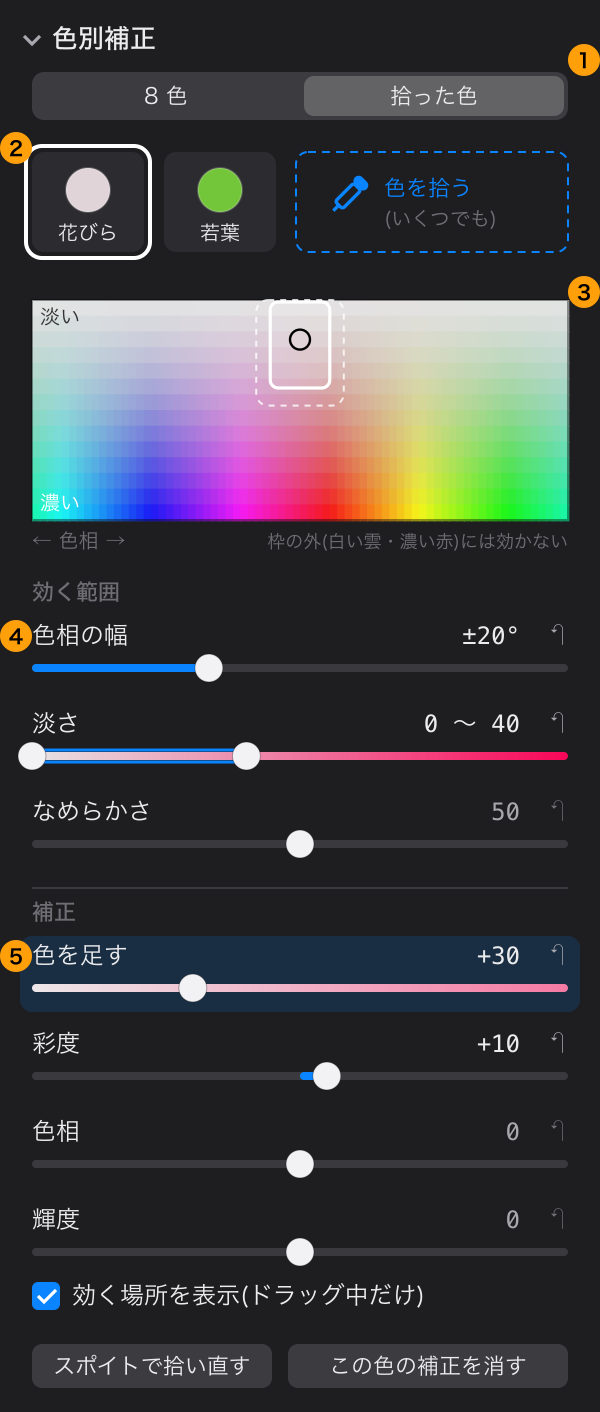
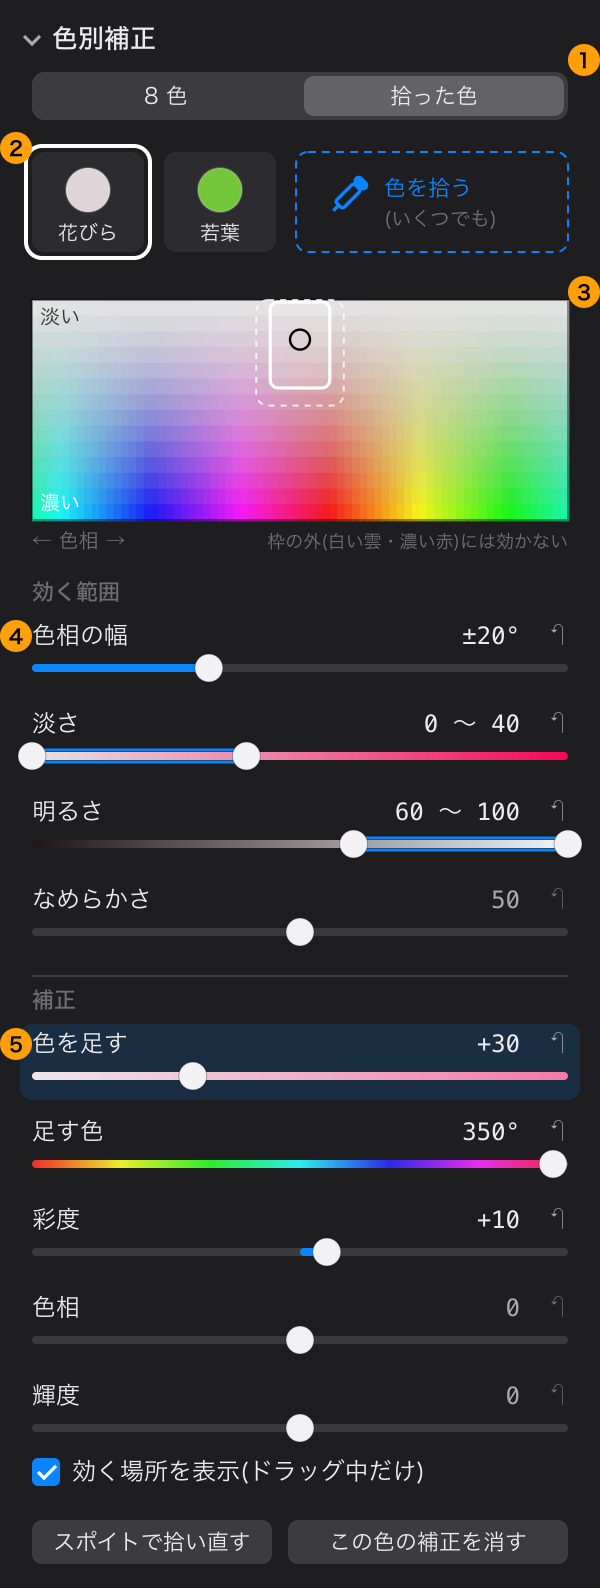
色別補正の設計文書とモックに、明るさの範囲・足す色・桜のサンプルの結果・HDR の切れを書く

diff --git a/scripts/mock_color.py b/scripts/mock_color.py
@@ -188,6 +188,9 @@ b = ['<defs>'
      f'<stop offset="1" stop-color="{hsl(PICK_H, 0.85, 0.72)}"/></linearGradient>'
      f'<linearGradient id="satRange"><stop offset="0" stop-color="{hsl(PICK_H, 0.05, 0.9)}"/>'
      f'<stop offset="1" stop-color="{hsl(PICK_H, 0.95, 0.5)}"/></linearGradient>'
+     f'<linearGradient id="lightRange"><stop offset="0" stop-color="{hsl(PICK_H, 0.2, 0.1)}"/>'
+     f'<stop offset="1" stop-color="{hsl(PICK_H, 0.2, 0.97)}"/></linearGradient>'
+     '<linearGradient id="hueFull">' + "".join(f'<stop offset="{k/12}" stop-color="{hsl(30*k)}"/>' for k in range(13)) + '</linearGradient>'
      '</defs>']
 y = 24
 b.append(header(y, "色別補正"))
@@ -241,23 +244,25 @@ y = 300
 b.append(text(16, y, "効く範囲", 11, TEXT3, 600))
 b.append(slider(y + 22, "色相の幅", "±20°", 0.33, neutral=0.0))
 b.append(range_slider(y + 66, "淡さ", "0 〜 40", SAT_LO, SAT_HI, "satRange"))
-b.append(slider(y + 110, "なめらかさ", "50", 0.5, neutral=0.5, edited=False))
+b.append(range_slider(y + 110, "明るさ", "60 〜 100", 0.60, 1.0, "lightRange"))
+b.append(slider(y + 154, "なめらかさ", "50", 0.5, neutral=0.5, edited=False))
 b.append(note(8, y + 18, 4))
 
-y = 460
+y = 504
 b.append(f'<line x1="16" y1="{y-16}" x2="{W-16}" y2="{y-16}" stroke="{LINE}"/>')
 b.append(text(16, y, "補正", 11, TEXT3, 600))
 b.append(slider(y + 22, "色を足す", "+30", 0.30, "addTrack", highlight=True))
-b.append(slider(y + 66, "彩度", "+10", 0.55))
-b.append(slider(y + 110, "色相", "0", 0.5, edited=False))
-b.append(slider(y + 154, "輝度", "0", 0.5, edited=False))
+b.append(slider(y + 66, "足す色", "350°", 350 / 360, "hueFull"))
+b.append(slider(y + 110, "彩度", "+10", 0.55))
+b.append(slider(y + 154, "色相", "0", 0.5, edited=False))
+b.append(slider(y + 198, "輝度", "0", 0.5, edited=False))
 b.append(note(8, y + 18, 5))
 
-y = 652
+y = 740
 b.append(f'<rect x="16" y="{y-11}" width="14" height="14" rx="3" fill="{ACCENT}"/>'
          f'<path d="M19 {y-4} l3 3 l6 -6" stroke="#fff" stroke-width="1.6" fill="none"/>')
 b.append(text(36, y, "効く場所を表示(ドラッグ中だけ)", 12))
-y = 672
+y = 760
 b.append(button(16, y, 120, "スポイトで拾い直す"))
 b.append(button(144, y, 140, "この色の補正を消す"))
 h_c = y + 34
